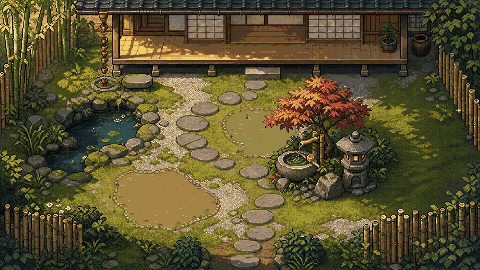
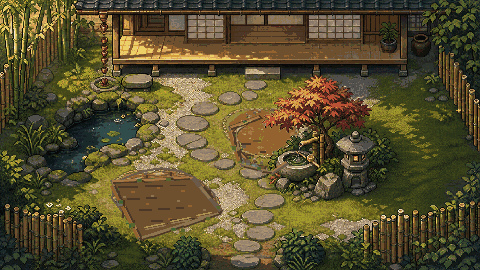
Publish Komorebi House

Changed region(s): [[0.2188, 0.6222, 0.4688, 0.8889], [0.4688, 0.3852, 0.625, 0.6519]]

diff --git a/tests/e2e.spec.ts b/tests/e2e.spec.ts
@@ -26,6 +26,7 @@ type QaState = {
     id: string;
     sku: string;
     zone: string;
+    placementLayer: string;
     tileX: number;
     tileY: number;
     rotation: number;
@@ -524,19 +525,32 @@ test("a rapid double purchase is one atomic economy transaction", async ({ page 
 
 test("insufficient funds reject the purchase with zero state mutation", async ({ page }) => {
   await openFreshGame(page);
-  const before = await qaState(page);
   const items = await catalogItems(page);
-  const unaffordable = items.find((item) => item.price > before.economy.coins);
+  let before = await qaState(page);
+  let unaffordable = items.find((item) => item.price > before.economy.coins);
 
-  expect(
-    unaffordable,
-    "The release catalog needs at least one item above the fresh-save balance to exercise insufficient funds.",
-  ).toBeTruthy();
+  for (let purchase = 0; !unaffordable && purchase < items.length; purchase += 1) {
+    const spend = items
+      .filter(
+        (item) =>
+          item.price > 0 && item.price <= before.economy.coins,
+      )
+      .sort((left, right) => right.price - left.price)[0];
+    expect(
+      spend,
+      "The catalog cannot reach an insufficient-funds state through normal purchases.",
+    ).toBeTruthy();
+    await buyOne(page, spend!);
+    before = await qaState(page);
+    unaffordable = items.find((item) => item.price > before.economy.coins);
+  }
+
+  expect(unaffordable, "No unaffordable item exists after normal spending.").toBeTruthy();
 
   const priorCount = before.inventory[unaffordable!.sku] ?? 0;
   await unaffordable!.card.getByTestId(`buy-${unaffordable!.sku}`).click();
   await expect(page.getByTestId("toast-region")).toContainText(
-    /not enough|insufficient|足り|不足/i,
+    /not enough|insufficient|few more hikari|足り|不足/i,
   );
   const after = await qaState(page);
   expect(after.economy.coins).toBe(before.economy.coins);
@@ -574,9 +588,15 @@ test("invalid placement is blocked and rapid valid confirm creates one object", 
   expect(afterPlacement.placements.filter((entry) => entry.id === placed.id)).toHaveLength(1);
 
   const allCells = afterPlacement.placements.flatMap((entry) =>
-    entry.footprint.map((cell) => `${entry.zone}:${cell.x}:${cell.y}`),
+    entry.footprint.map(
+      (cell) =>
+        `${entry.zone}:${entry.placementLayer}:${cell.x}:${cell.y}`,
+    ),
   );
-  expect(new Set(allCells).size, "Two committed footprints overlap.").toBe(allCells.length);
+  expect(
+    new Set(allCells).size,
+    "Two committed footprints overlap on the same placement layer.",
+  ).toBe(allCells.length);
 });
 
 test("moving then cancelling is lossless; moving then confirming is free", async ({ page }) => {
@@ -796,23 +816,37 @@ test.describe("390x844 mobile", () => {
 
     await expect(page.getByTestId("mobile-dpad")).toBeVisible();
     const controls = page.locator('button:visible, [role="button"]:visible');
-    const count = await controls.count();
-    expect(count).toBeGreaterThan(0);
-    for (let index = 0; index < count; index += 1) {
-      const control = controls.nth(index);
-      const box = await control.boundingBox();
-      expect(box, `Visible control ${index} has no box.`).not.toBeNull();
-      expect(box!.width, `Visible control ${index} is narrower than 44px.`).toBeGreaterThanOrEqual(
+    const boxes = await controls.evaluateAll((elements) =>
+      elements.map((element) => {
+        const rect = element.getBoundingClientRect();
+        return {
+          label:
+            element.getAttribute("aria-label") ??
+            element.textContent?.trim().slice(0, 40) ??
+            element.tagName,
+          x: rect.x,
+          y: rect.y,
+          width: rect.width,
+          height: rect.height,
+        };
+      }),
+    );
+    expect(boxes.length).toBeGreaterThan(0);
+    for (const box of boxes) {
+      expect(
+        box.width,
+        `Visible control "${box.label}" is narrower than 44px.`,
+      ).toBeGreaterThanOrEqual(
         44,
       );
       expect(
-        box!.height,
-        `Visible control ${index} is shorter than 44px.`,
+        box.height,
+        `Visible control "${box.label}" is shorter than 44px.`,
       ).toBeGreaterThanOrEqual(44);
-      expect(box!.x).toBeGreaterThanOrEqual(0);
-      expect(box!.y).toBeGreaterThanOrEqual(0);
-      expect(box!.x + box!.width).toBeLessThanOrEqual(390);
-      expect(box!.y + box!.height).toBeLessThanOrEqual(844);
+      expect(box.x).toBeGreaterThanOrEqual(0);
+      expect(box.y).toBeGreaterThanOrEqual(0);
+      expect(box.x + box.width).toBeLessThanOrEqual(390);
+      expect(box.y + box.height).toBeLessThanOrEqual(844);
     }
   });
 
@@ -885,13 +919,19 @@ test.describe("390x844 mobile", () => {
       fullPage: true,
     });
 
-    await openCustomizer(page);
-    const panel = await page.getByTestId("catalog-panel").boundingBox();
-    expect(panel).not.toBeNull();
-    expect(panel!.x).toBeGreaterThanOrEqual(0);
-    expect(panel!.y).toBeGreaterThanOrEqual(0);
-    expect(panel!.x + panel!.width).toBeLessThanOrEqual(390);
-    expect(panel!.y + panel!.height).toBeLessThanOrEqual(844);
+    const panelLocator = page.getByTestId("catalog-panel");
+    await page.locator('[data-action="customizer-open"]:visible').click();
+    const expectPanelContained = async (): Promise<void> => {
+      const panel = await panelLocator.boundingBox();
+      expect(panel).not.toBeNull();
+      expect(panel!.x).toBeGreaterThanOrEqual(0);
+      expect(panel!.y).toBeGreaterThanOrEqual(0);
+      expect(panel!.x + panel!.width).toBeLessThanOrEqual(390);
+      expect(panel!.y + panel!.height).toBeLessThanOrEqual(844);
+    };
+    await expectPanelContained();
+    await page.waitForTimeout(220);
+    await expectPanelContained();
     await expect(page).toHaveScreenshot("mobile-customization.png", {
       fullPage: true,
     });

diff --git a/src/ui/styles.css b/src/ui/styles.css
@@ -5130,6 +5130,12 @@
 }
 
 @media (max-width: 640px) {
+  .kh-shop {
+    animation-name: kh-fade-in;
+    animation-duration: 180ms;
+    animation-timing-function: ease-out;
+  }
+
   /*
    * Portrait phones become an intentional pocket-handheld surface. Phaser
    * already writes centering margins onto the canvas; the host must not center
@@ -5150,16 +5156,18 @@
   .kh-stage-shell::after {
     position: absolute;
     z-index: 1;
-    top: 354px;
+    /* Sit in the small breathing space under the full-width scene, not in
+       competition with the docked physical controls. */
+    top: calc(80px + (100vw * 0.5625));
     left: 50%;
     width: min(68vw, 248px);
     padding: 10px 0;
-    color: rgba(236, 218, 170, 0.33);
+    color: rgba(236, 218, 170, 0.32);
     border-top: 1px solid rgba(236, 218, 170, 0.12);
     border-bottom: 1px solid rgba(236, 218, 170, 0.08);
     content: "KOMOREBI POCKET · 静かな時間";
     font-family: var(--kh-display);
-    font-size: 0.48rem;
+    font-size: 0.42rem;
     font-weight: 800;
     letter-spacing: 0.22em;
     text-align: center;
@@ -5184,7 +5192,27 @@
 
   .kh-mobile-controls {
     display: flex;
-    bottom: calc(106px + var(--kh-safe-bottom));
+    /* Full scene framing stays intact. On a 390px-wide screen this gives the
+       D-pad a 24px visual gutter below the 16:9 canvas (including its frame). */
+    bottom: max(
+      calc(100dvh - 76px - (100vw * 0.5625) - 24px - 138px),
+      calc(82px + var(--kh-safe-bottom))
+    );
+  }
+
+  .kh-touch-actions small {
+    min-width: 40px;
+    margin-top: 6px;
+    padding: 3px 7px;
+    color: #fffaf0;
+    background: rgba(21, 30, 27, 0.86);
+    border: 1px solid rgba(255, 250, 240, 0.22);
+    border-radius: 4px;
+    font-size: 0.58rem;
+    font-weight: 900;
+    letter-spacing: 0.04em;
+    line-height: 1.15;
+    text-align: center;
   }
 
   .kh-ui:has(.kh-scrim, .kh-dialogue, .kh-decor-tray, .kh-onboarding)

diff --git a/src/game/bootstrap.ts b/src/game/bootstrap.ts
@@ -7,6 +7,7 @@ import {
 } from '../ui';
 import { sceneDecorById } from './catalogAdapter';
 import { createGameConfig } from './config';
+import { placementLayerForDecor } from './corePlacementAdapter';
 import {
   DEFAULT_SAVE_KEY,
   DEPTH,
@@ -241,7 +242,7 @@ function initialShell(root: HTMLElement, recoveredSave: boolean): {
     overflow: 'hidden',
     color: '#f8efd3',
     background:
-      'linear-gradient(180deg, rgba(18,35,31,.08), rgba(12,25,23,.78)), url("/assets/komorebi-title-plate-morning-clean.png") center / cover',
+      `linear-gradient(180deg, rgba(18,35,31,.08), rgba(12,25,23,.78)), url("${import.meta.env.BASE_URL}assets/komorebi-title-plate-morning-clean.png") center / cover`,
   });
 
   return { canvasHost, uiHost, startScreen, startButton };
@@ -614,6 +615,9 @@ export function bootstrapGame(root: HTMLElement): GameBootstrapHandle {
         },
         inventory: snapshot?.ownedItems ?? {},
         placements: placements.map((placement) => ({
+          placementLayer: placementLayerForDecor(
+            sceneDecorById(placement.itemId),
+          ),
           id: placement.instanceId,
           sku: placement.itemId,
           zone: placement.location,

diff --git a/src/game/worldAssets.ts b/src/game/worldAssets.ts
@@ -5,6 +5,9 @@ export interface WorldBackplateAsset {
   readonly path: string;
 }
 
+const publicAsset = (path: string): string =>
+  `${import.meta.env.BASE_URL}${path.replace(/^\/+/, '')}`;
+
 /**
  * Stable runtime keys keep authored world art replaceable without letting
  * filenames leak into scene or simulation code.
@@ -13,19 +16,19 @@ export const WORLD_BACKPLATES: Readonly<Record<LocationId, WorldBackplateAsset>>
   Object.freeze({
     room: Object.freeze({
       key: 'koh:world:room',
-      path: '/assets/world/room-base.png',
+      path: publicAsset('assets/world/room-base.png'),
     }),
     garden: Object.freeze({
       key: 'koh:world:garden',
-      path: '/assets/world/garden-base.png',
+      path: publicAsset('assets/world/garden-base.png'),
     }),
     cafe: Object.freeze({
       key: 'koh:world:cafe',
-      path: '/assets/world/cafe-base.png',
+      path: publicAsset('assets/world/cafe-base.png'),
     }),
     park: Object.freeze({
       key: 'koh:world:park',
-      path: '/assets/world/park-base.png',
+      path: publicAsset('assets/world/park-base.png'),
     }),
   });
 

diff --git a/src/game/corePlacementAdapter.ts b/src/game/corePlacementAdapter.ts
@@ -54,18 +54,26 @@ function footprintOffsets(definition: DecorDefinition): GridPoint[] {
   return cells;
 }
 
-function toCoreItemDefinition(definition: DecorDefinition): CoreItemDefinition {
+export function placementLayerForDecor(
+  definition: DecorDefinition | undefined,
+): string {
+  if (!definition) return 'object';
   const isFloorLayer = definition.category === 'soft';
   const isTabletop =
     definition.category === 'tabletop' ||
     definition.placementSurface === 'tabletop';
+  return isFloorLayer ? 'floor' : isTabletop ? 'tabletop' : 'object';
+}
+
+function toCoreItemDefinition(definition: DecorDefinition): CoreItemDefinition {
+  const placementLayer = placementLayerForDecor(definition);
   return {
     id: definition.id,
     footprint: footprintOffsets(definition),
     allowedZoneKinds: definition.locations,
-    placementLayer: isFloorLayer ? 'floor' : isTabletop ? 'tabletop' : 'object',
+    placementLayer,
     blocksPlacement: true,
-    blocksMovement: !isFloorLayer && !isTabletop,
+    blocksMovement: placementLayer === 'object',
     rotatable: true,
   };
 }

diff --git a/index.html b/index.html
@@ -15,14 +15,20 @@
       property="og:description"
       content="A little home for quiet days. Decorate, study, and wander through a tiny Japanese town."
     />
-    <meta property="og:image" content="__KOMOREBI_ORIGIN__/og.png" />
+    <meta
+      property="og:image"
+      content="https://yourjpguide-commits.github.io/komorebi-house/og.png"
+    />
     <meta name="twitter:card" content="summary_large_image" />
     <meta name="twitter:title" content="Komorebi House" />
     <meta
       name="twitter:description"
       content="A little home for quiet days. Decorate, study, and wander through a tiny Japanese town."
     />
-    <meta name="twitter:image" content="__KOMOREBI_ORIGIN__/og.png" />
+    <meta
+      name="twitter:image"
+      content="https://yourjpguide-commits.github.io/komorebi-house/og.png"
+    />
     <title>Komorebi House</title>
   </head>
   <body>
